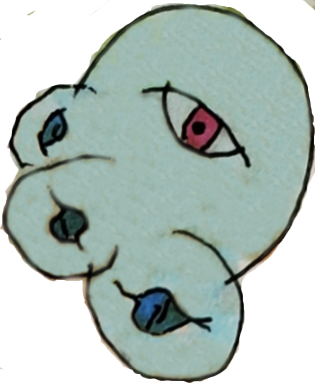
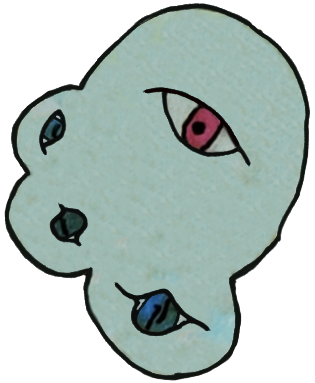
clean up eye blobs to make them look more consistent and add gray background

diff --git a/src/styles.css b/src/styles.css
@@ -4,7 +4,7 @@ body {
   font-family: monospace;
 }
 canvas {
-  background-color: black;
+  background-color: #403a3a;
 }
 p {
   font-size: large;
